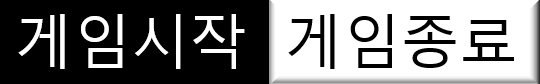
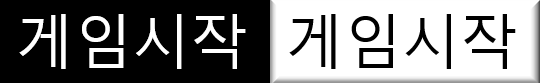
title_state 버튼 구현
game_start, game_exit 버튼 키 구현하여 클릭시 시작하도록 변경

diff --git a/2DGP_Project/Run&Return/title_state.py b/2DGP_Project/Run&Return/title_state.py
@@ -7,20 +7,34 @@ from pico2d import *
 from music import BGM
 from image import Image
 
+window_right, window_top = 800, 600
 
 name = "TitleState"
 title = None
 backgroundmusic = None
-window_right, window_top = 800, 600
 
+game_start = None
+game_exit = None
+
+choose_menu_pivot_num = 0
+
+none_select, start, exit = range(3)
+choose_menu_type = {none_select : 0, start : 1, exit : 2}
 
 def enter():
-    global title, backgroundmusic
+    global title, backgroundmusic, game_start, game_exit
     game_world.objects = [[], []]
     title = Image(window_right // 2, window_top // 2, 0, 0, 800, 600, 'resource\\title_state\\title.png')
     game_world.add_object(title, 0)
     backgroundmusic = BGM("title_state")
 
+    game_start = Image(window_right / 2 - 200, window_top / 6, 270 * 0, 0, 270 - 1, 84,
+                             'resource\\title_state\\game_start.png')
+    game_world.add_object(game_start, 1)
+
+    game_exit = Image(window_right / 2 + 200, window_top / 6, 270 * 0, 0, 270 - 1, 84,
+                      'resource\\title_state\\game_exit.png')
+    game_world.add_object(game_exit, 1)
 
 def exit():
     game_world.clear()
@@ -28,18 +42,33 @@ def exit():
 
 
 def handle_events():
+    global choose_menu_pivot_num
     events = get_events()
     for event in events:
         if event.type == SDL_QUIT:
             game_framework.quit()
+        elif event.type == SDL_MOUSEBUTTONDOWN:
+            if (choose_menu_pivot_num == start):
+                game_framework.change_state(stage_run)
+            elif (choose_menu_pivot_num == exit):
+                game_framework.quit()
+
         else:
             if(event.type, event.key) == (SDL_KEYDOWN, SDLK_ESCAPE):
                 game_framework.quit()
-            elif (event.type, event.key) == (SDL_KEYDOWN, SDLK_SPACE):
-                game_framework.change_state(stage_run)
             elif (event.type, event.key) == (SDL_KEYDOWN, SDLK_p):
                 game_framework.change_state(stage_editor)
 
+            mouse_pos = event.x, window_to_pico_coordinate_system(event.y)
+            game_start_pos = game_start.x, game_start.y
+            exit_image_pos = game_exit.x, game_exit.y
+
+            if (collide(game_start_pos, mouse_pos)):
+                choose_menu_pivot_num = start
+            elif (collide(exit_image_pos, mouse_pos)):
+                choose_menu_pivot_num = exit
+            else:
+                choose_menu_pivot_num = none_select
 
 def draw():
     clear_canvas()
@@ -48,10 +77,32 @@ def draw():
     update_canvas()
 
 
-def update():pass
+def update():
+    global choose_menu_pivot_num
+    if (choose_menu_pivot_num == none_select):
+        game_start.left = (270 - 1) * 0
+        game_exit.left = (270 - 1) * 0
+    elif (choose_menu_pivot_num == start):
+        game_start.left = (270 - 1) * 1
+    elif (choose_menu_pivot_num == exit):
+        game_exit.left = (270 - 1) * 1
 
 
 def pause():pass
 
 
 def resume():pass
+
+
+def window_to_pico_coordinate_system(num):      # pico 환경과, 윈도우 환경 마우스 좌표 값 조정 함수
+    return window_top - 1 - num
+
+def collide(a, b):
+    left_a,bottom_a, right_a, top_a  = int(a[0] - 270//2), int(a[1] - 84//2), int(a[0] + 270//2),int(a[1] + 84//2)
+    left_b, bottom_b, right_b, top_b = int(b[0] - 5), int(b[1] - 5), int(b[0] +5), int(b[1] + 5)
+
+    if left_a > right_b: return False
+    if right_a < left_b: return False
+    if top_a < bottom_b: return False
+    if bottom_a > top_b: return False
+    return True

diff --git a/2DGP_Project/Run&Return/score_state.py b/2DGP_Project/Run&Return/score_state.py
@@ -70,6 +70,7 @@ def handle_events():
             mouse_pos = event.x, window_to_pico_coordinate_system(event.y)
             return_image_pos = return_main_menu.x, return_main_menu.y
             exit_image_pos = game_exit.x, game_exit.y
+
             if(collide(return_image_pos, mouse_pos)):
                 choose_menu_pivot_num = return_main
             elif (collide(exit_image_pos, mouse_pos)):
